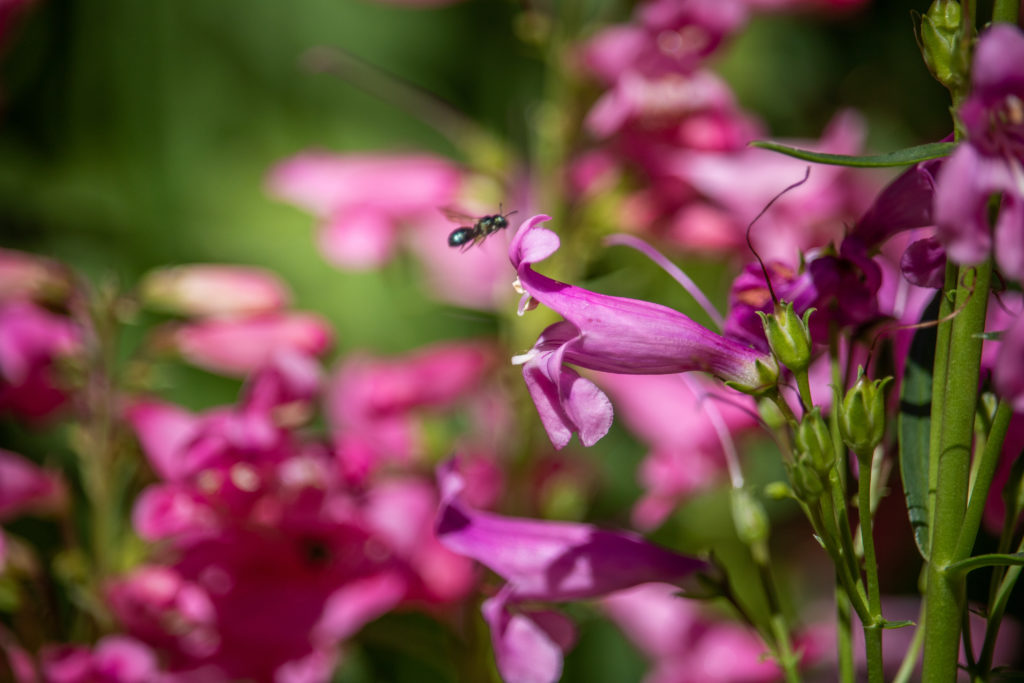
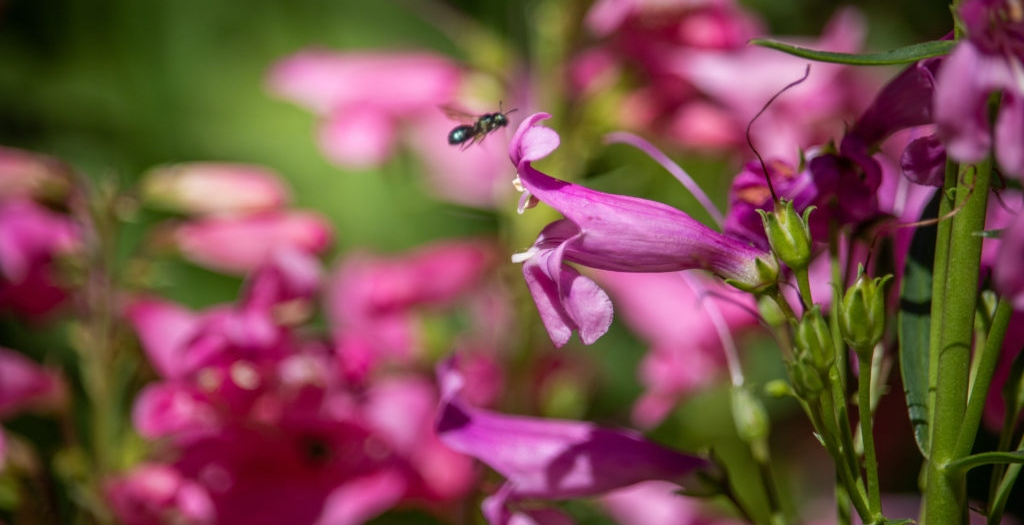
optimized for mobile

diff --git a/index.html b/index.html
@@ -10,7 +10,7 @@
 		<meta charset="utf-8" />
 		<meta name="viewport" content="width=device-width, initial-scale=1, user-scalable=yes"/>
 		<link rel="stylesheet" href="assets/css/main.css"/>
-		<script src="https://kit.fontawesome.com/c70c69bd1d.js" crossorigin="anonymous"></script>
+		<script defer src="https://kit.fontawesome.com/c70c69bd1d.js" crossorigin="anonymous"></script>
 	</head>
 	<body class="landing is-preload">
 		<div id="page-wrapper">
@@ -61,7 +61,7 @@
 							<h2>Transform your outdoor space into an oasis of vibrant, native plant life.</h2>
 							<p>Wildscapes is a family-owned xeriscaping business, passionate about turning high-maintenance, water-intensive yards into gorgeous natural landscapes that are better for the planet and better for the pocketbook.</p>
 						</header>
-						<span class="image featured"><img src="images/xeriscaping.jpg" alt="" /></span>
+						<span class="image featured"><img srcset="images/xeriscaping-small.jpg 400w, images/xeriscaping-medium.jpg 800w, images/xeriscaping-large.jpg 1200w" src="images/xeriscaping-medium.jpg" alt="A yard filled with native plants and flowers" loading="lazy"/></span>
 					</section>
 
 					<section class="box special features">
@@ -97,7 +97,7 @@
 						<div class="row">
 							<div class="col-6 col-12-mobile">
 								<section class="box special testimonials">
-									<span class="image featured"><img src="images/bee.jpg" alt="" /></span>
+									<span class="image featured"><img srcset="images/bee-small.jpg 500w, images/bee.jpg 1024w" src="images/bee.jpg" alt="A pollinating insect landing on a pink flower" loading="lazy"/></span>
 									<p class="quote">"Converting my lawn to a native plant garden with Wildscapes was the best decision I've ever made as a homeowner. It's my favorite space on the property now - absolutely gorgeous and brimming with life!"</p>
 									<span class="customer">-Jada Miller</span>
 									<span class="icon solid fa-solid fa-star stars"><span class="icon solid fa-solid fa-star"><span class="icon solid fa-solid fa-star"><span class="icon solid fa-solid fa-star"><span class="icon solid fa-solid fa-star"></span>
@@ -105,7 +105,7 @@
 							</div>
 							<div class="col-6 col-12-mobile">
 								<section class="box special testimonials">
-									<span class="image featured"><img src="images/flower.jpg" alt="" /></span>
+									<span class="image featured"><img srcset="images/flower-small.jpg 500w, images/flower.jpg 1024w" src="images/flower.jpg" alt="Yellow and purple flowers growing outdoors" loading="lazy"/></span>
 									<p class="quote">"Working with Wildscapes to give our yard a makeover was a dream. We only regret not doing it years earlier! Xeriscaping has saved us so much much time and money, and everyone compliments our garden!"</p>
 									<span class ="customer">-Robert Parker</span>
 									<span class="icon solid fa-solid fa-star stars"><span class="icon solid fa-solid fa-star"><span class="icon solid fa-solid fa-star"><span class="icon solid fa-solid fa-star"><span class="icon solid fa-solid fa-star"></span>

diff --git a/assets/css/main.css b/assets/css/main.css
@@ -3189,7 +3189,7 @@
 	#banner {
 		background-attachment: scroll,							fixed;
 		background-color: #666;
-		background-image: url("images/overlay.png"), url("../../images/banner-lavender.jpg");
+		background-image: url("images/overlay.png"), url("../../images/banner-medium.jpg");
 		background-position: top left,						center center;
 		background-repeat: repeat,							no-repeat;
 		background-size: auto,							cover;
@@ -3406,6 +3406,7 @@
 
 			#banner {
 				padding: 10em 0 18em 0;
+				background-image: url("images/overlay.png"), url("../../images/banner-large.jpg");
 			}
 
 	}
@@ -3430,6 +3431,7 @@
 
 			#banner {
 				background-attachment: scroll;
+				background-image: url("images/overlay.png"), url("../../images/banner-medium.jpg");
 			}
 
 				#banner h2 {
@@ -3911,6 +3913,7 @@
 
 			#banner {
 				padding: 5em 3em 4em 3em;
+				background-image: url("images/overlay.png"), url("../../images/banner-small.jpg");
 			}
 
 		/* Main */

diff --git a/contact.html b/contact.html
@@ -10,7 +10,7 @@
 		<meta charset="utf-8" />
 		<meta name="viewport" content="width=device-width, initial-scale=1, user-scalable=yes" />
 		<link rel="stylesheet" href="assets/css/main.css"/>
-		<script src="https://kit.fontawesome.com/c70c69bd1d.js" crossorigin="anonymous"></script>
+		<script defer src="https://kit.fontawesome.com/c70c69bd1d.js" crossorigin="anonymous"></script>
 	</head>
 	<body class="is-preload">
 		<div id="page-wrapper">
